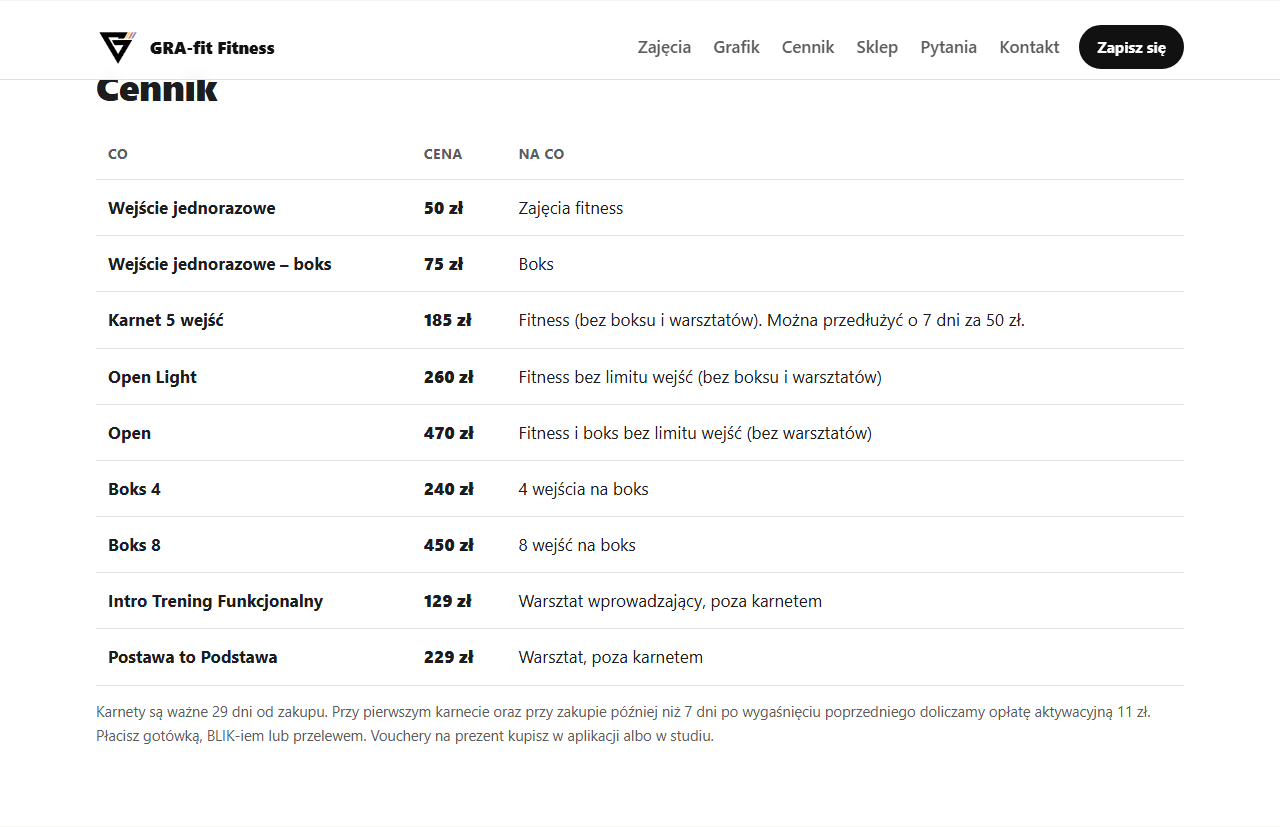
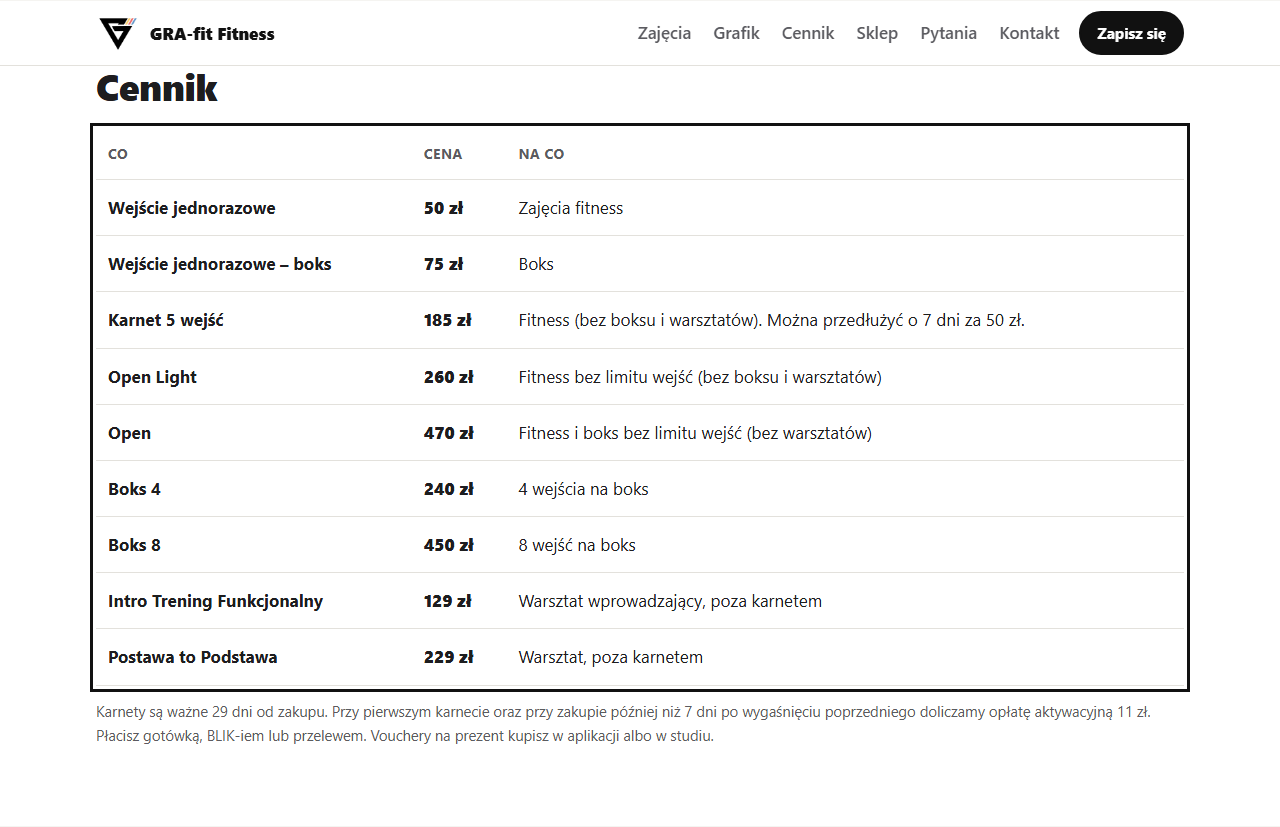
docs(dostepnosc): zrzuty cennika na komputerze po kroku Tab; README — grafik 320 px i nagłówek na komputerze
Nowe zrzuty komputer-cennik: po (gałąź dostepnosc) fokus na regionie tabeli z czarną ramką;
przed (main) ten sam krok Tab przeskakuje tabelę na sklep, więc w cenniku nie ma ramki.

diff --git a/docs/dostepnosc/zrzuty/README.md b/docs/dostepnosc/zrzuty/README.md
@@ -15,7 +15,7 @@ Treść strony się nie zmienia. Zmienia się tylko to, co opisane niżej.
    Dotąd na telefonie menu (Zajęcia, Grafik, Cennik…) było schowane i nie dało się go otworzyć.
    Teraz obok „Zapisz się” jest przycisk „Menu” w tym samym stylu co inne przyciski strony.
    Po naciśnięciu rozwija się lista sekcji; po wybraniu sekcji lista sama się zwija.
-   Na komputerze wszystko zostaje jak było.
+   Na komputerze nagłówek zostaje jak był (zrzuty `komputer-naglowek` przed i po są takie same).
    Na większości telefonów w nagłówku zostaje samo logo, bez napisu „GRA-fit Fitness”
    (szczegóły w „Do decyzji”, punkt A).
 
@@ -30,8 +30,10 @@ Treść strony się nie zmienia. Zmienia się tylko to, co opisane niżej.
    niewidomych przeczyta ten komunikat. Na telefonie nadal otwiera się okno udostępniania.
 
 5. **Grafik na bardzo wąskim telefonie** (`320-grafik`).
-   Wygląd się nie zmienia. Różnica jest tylko wtedy, gdy ktoś ma w telefonie powiększony tekst:
-   napisy „są miejsca” i „Dopisz się do zajęć” mogą wtedy przejść do drugiej linii
+   Na bardzo wąskim ekranie przy niektórych zajęciach (np. „Trening funkcjonalny”) napis
+   „są miejsca” przechodzi pod nazwę zajęć, dzięki czemu nazwa mieści się w jednej linii.
+   Poza tym grafik wygląda tak samo. Gdy ktoś ma w telefonie powiększony tekst,
+   napisy „są miejsca” i „Dopisz się do zajęć” mogą przejść do drugiej linii
    zamiast wychodzić poza ekran.
 
 6. **Adres e-mail w kontakcie** (`320-kontakt`).
